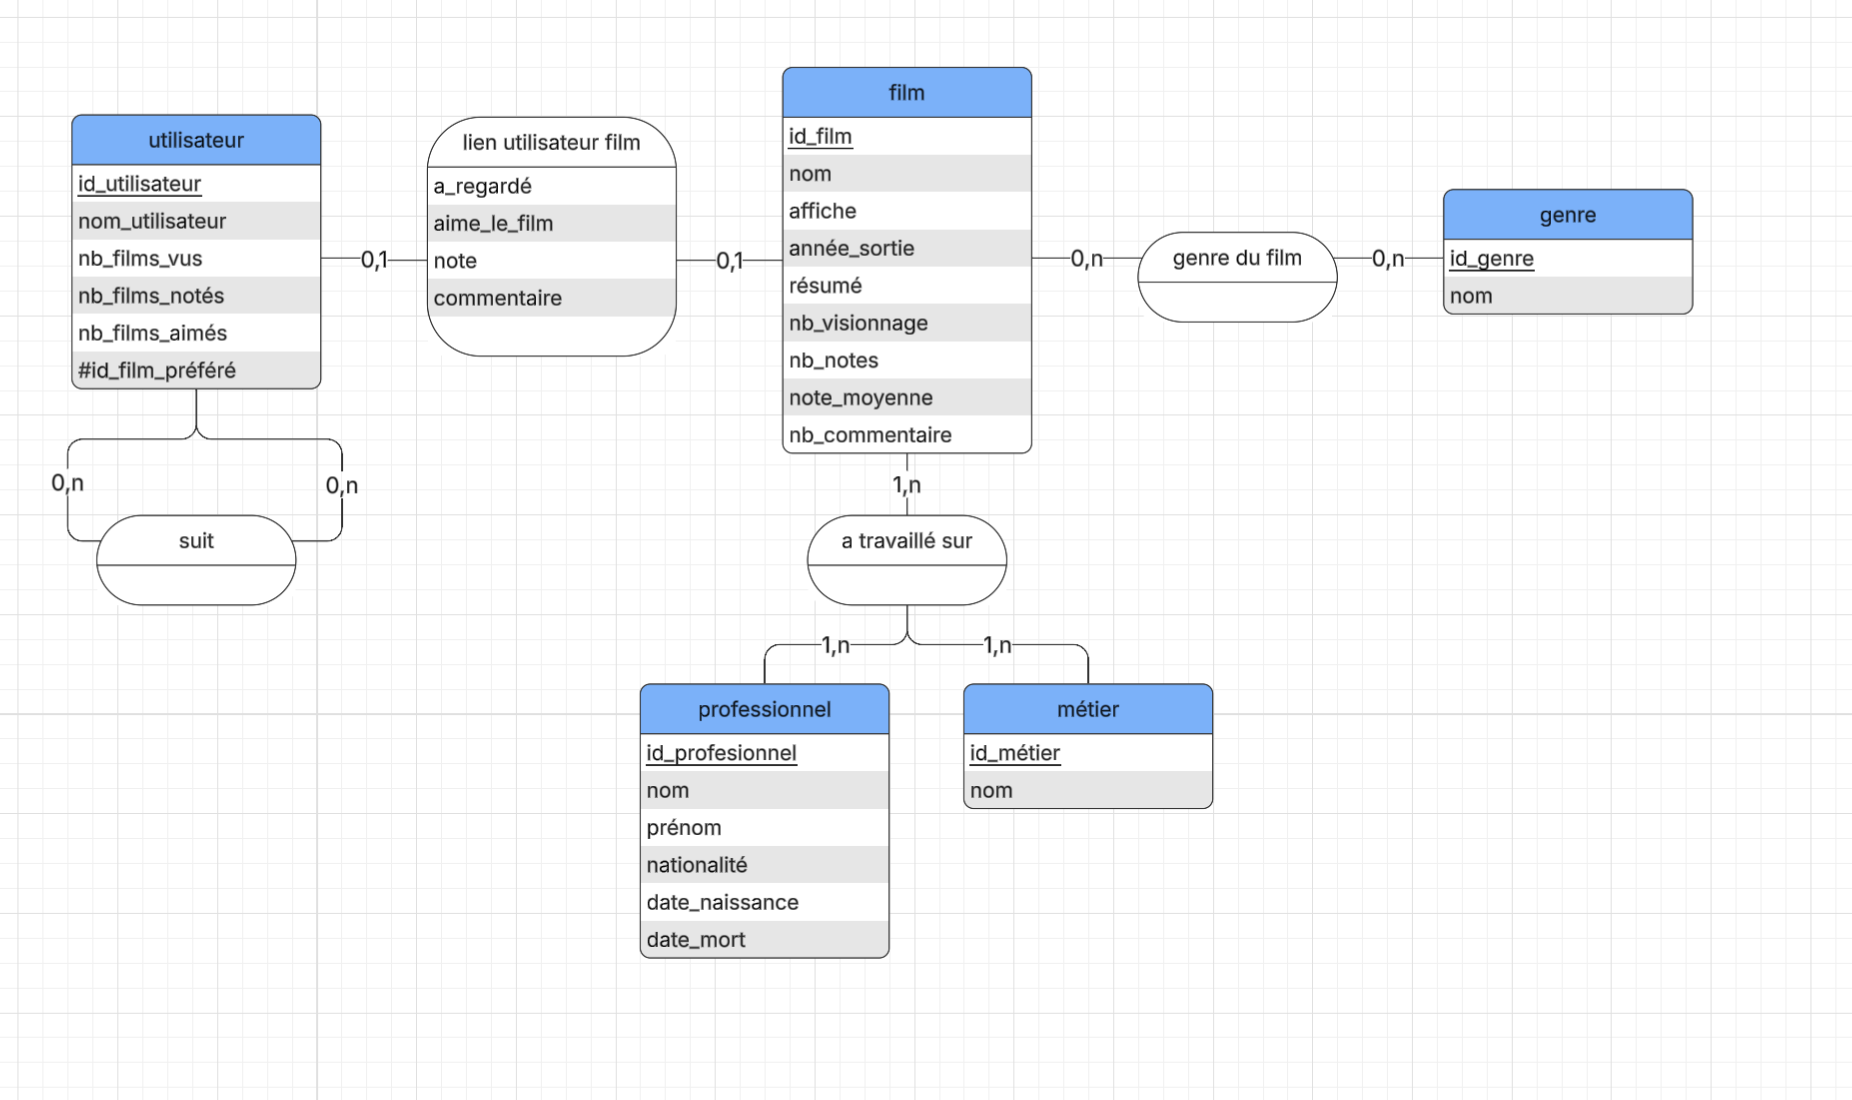
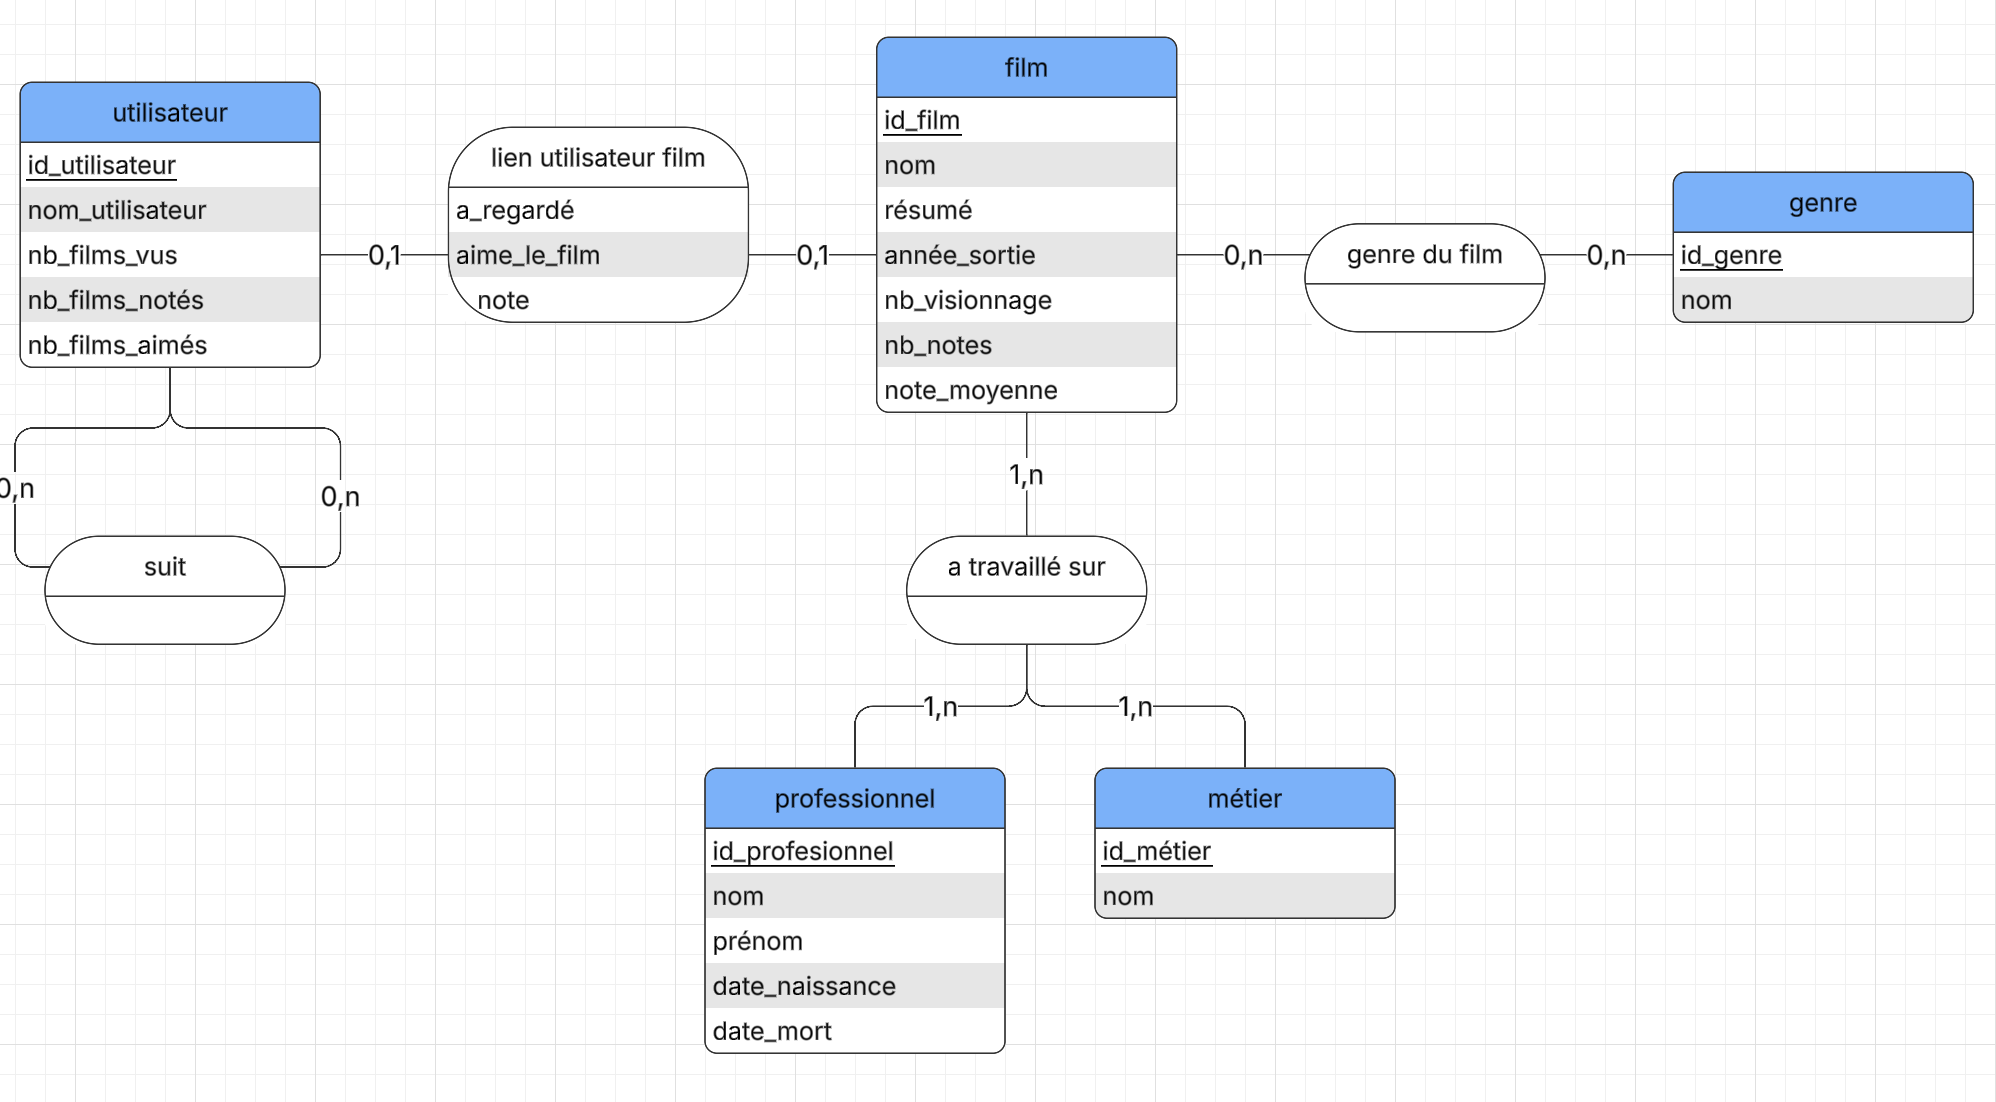
reedme + chagement MCD

diff --git a/src/modele.py b/src/modele.py
@@ -75,7 +75,6 @@ def create_list():
         id INTEGER PRIMARY KEY AUTOINCREMENT,
         nom TEXT NOT NULL,
         prenom TEXT,
-        nationalite TEXT,
         date_naissance TEXT,
         date_deces TEXT
     )
@@ -347,12 +346,12 @@ def add_professionnel_no_metier(nom, prenom=None, date_naissance=None, date_dece
     cursor.close()
     conn.close()
 
-def add_professionnel(nom, prenom=None, nationalite=None, date_naissance=None, date_deces=None):
+def add_professionnel(nom, prenom=None, date_naissance=None, date_deces=None):
     conn = sqlite3.connect('database.db')
     cursor = conn.cursor()
 
-    cursor.execute('INSERT OR IGNORE INTO professionnel (nom, prenom, nationalite, date_naissance, date_deces) VALUES (?, ?, ?, ?, ?)',
-                   (nom, prenom, nationalite, date_naissance, date_deces))
+    cursor.execute('INSERT OR IGNORE INTO professionnel (nom, prenom, date_naissance, date_deces) VALUES (?, ?, ?, ?)',
+                   (nom, prenom, date_naissance, date_deces))
     conn.commit()
     cursor.close()
     conn.close()
@@ -434,8 +433,6 @@ def get_professionnels_film(film_id):
     cursor.close()
     conn.close()
     return pros
-
-#def add_professionnel_metier(professionnel_id, metier_id):#jsp s'il l en faut une
 
 
     

diff --git a/README.md b/README.md
@@ -9,7 +9,74 @@ Chaque personne dans l'équipe est responsable d'une partie :
 - Loïc:  Flask coté serveur
 - Louiza: Flask coté front et interaction avec le back-end 
 - Ilyass:  Base de donnée (sqlite & python)
+
 Cela, bien sûr, n’empêche pas de travailler ensemble sur certaines parties : l’entraide est une force.
 
 ### MCD
 ![MCD non affichable](MCD.png)
+
+
+## 🎯 Le schéma de la base de données
+Table : liste_genres
+---------------------
+id             INTEGER PRIMARY KEY AUTOINCREMENT
+nom            TEXT UNIQUE
+
+
+Table : liste_films
+---------------------
+id                  INTEGER PRIMARY KEY AUTOINCREMENT
+nom                 TEXT UNIQUE NOT NULL 
+resume              TEXT
+annee_sortie        INTEGER UNIQUE
+nb_visionnage       INTEGER DEFAULT 0
+nb_notes            INTEGER DEFAULT 0
+note_moyenne        REAL DEFAULT 0.0
+genre_id            INTEGER FOREIGN KEY vers liste_genres(id)
+professionnel_id    INTEGER FOREIGN KEY vers professionnel(id)
+
+
+Table : utilisateur
+---------------------
+id                   INTEGER PRIMARY KEY AUTOINCREMENT
+nom                  TEXT NOT NULL
+nb_visionnage        INTEGER DEFAULT 0
+nb_notes             INTEGER DEFAULT 0
+nb_likes             INTEGER DEFAULT 0
+film_id              INTEGER FOREIGN KEY vers liste_films(id)
+utilisateur_id       INTEGER FOREIGN KEY vers utilisateur(id)
+
+
+Table : professionnel
+---------------------
+id                   INTEGER PRIMARY KEY AUTOINCREMENT
+nom                  TEXT NOT NULL 
+prenom               TEXT
+date_naissance       TEXT 
+date_deces           TEXT
+metier_id            INTEGER FOREIGN KEY vers metier(id)
+
+
+Table : metier
+---------------------
+id                   INTEGER PRIMARY KEY AUTOINCREMENT
+nom                  TEXT NOT NULL 
+
+
+
+<pre lang="markdown"> ## 🌐 Liste des Endpoints | Méthode | URL | Description | |--------:|----------------------|-----------------------------------------------------------------------------| | GET | `/` | Page principale. Initialise la base de données si besoin et affiche les genres. | | GET | `/ajouter_film` | Affiche le formulaire d’ajout d’un film. | | POST | `/ajout_film` | Ajoute un film à la base (JSON attendu avec nom, résumé, année, genres, note). | | POST | `/search_film` | Recherche un film selon le nom, l'année ou les genres. | | POST | `/film_detail` | Affiche les détails d’un film sélectionné (form data avec `film_id`). | | POST | `/delete_film` | Supprime un film par son `film_id`. | | POST | `/add_professionnel` | Ajoute un professionnel (acteur, réalisateur…) à un film donné. | | POST | `/delete_professionnel` | Supprime un professionnel d’un film (via `film_id`, `professionnel_id`, `metier`). | </pre>
+
+
+Exemple commande JSON
+<details>
+    POST /ajout_film
+    Content-Type: application/json
+
+    {
+    "nom": "Inception",
+    "resume": "Un voleur entre dans les rêves.",
+    "annee_sortie": 2010,
+    "genres": [{"genre": "Action"}, {"genre": "Science-Fiction"}],
+    "note": 4.5
+    }
+</details>
